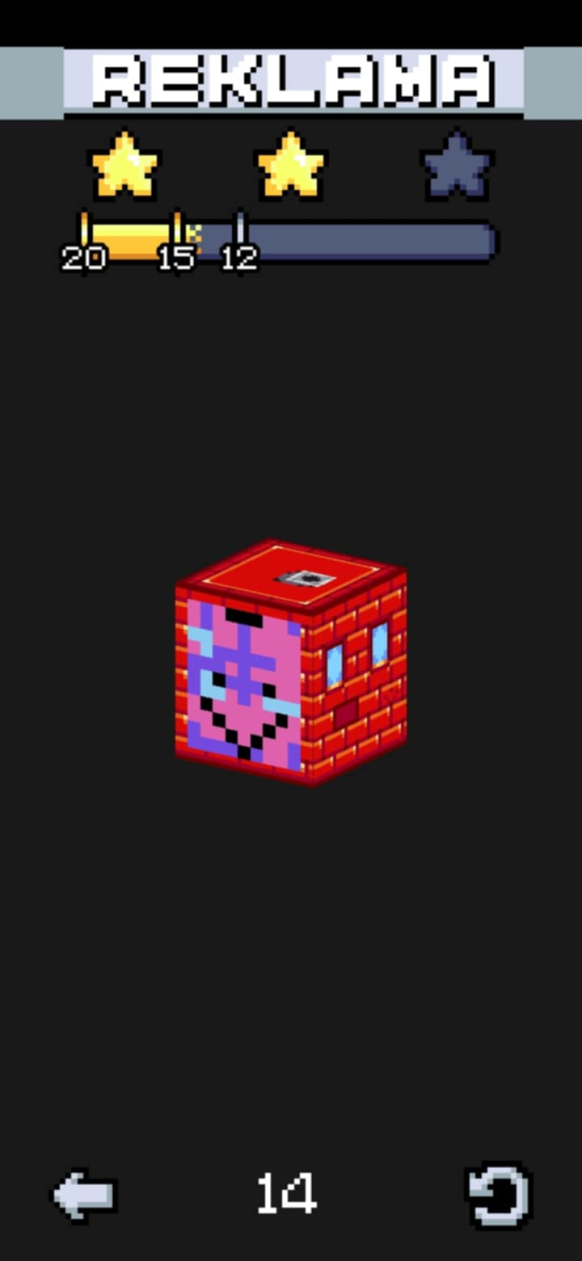
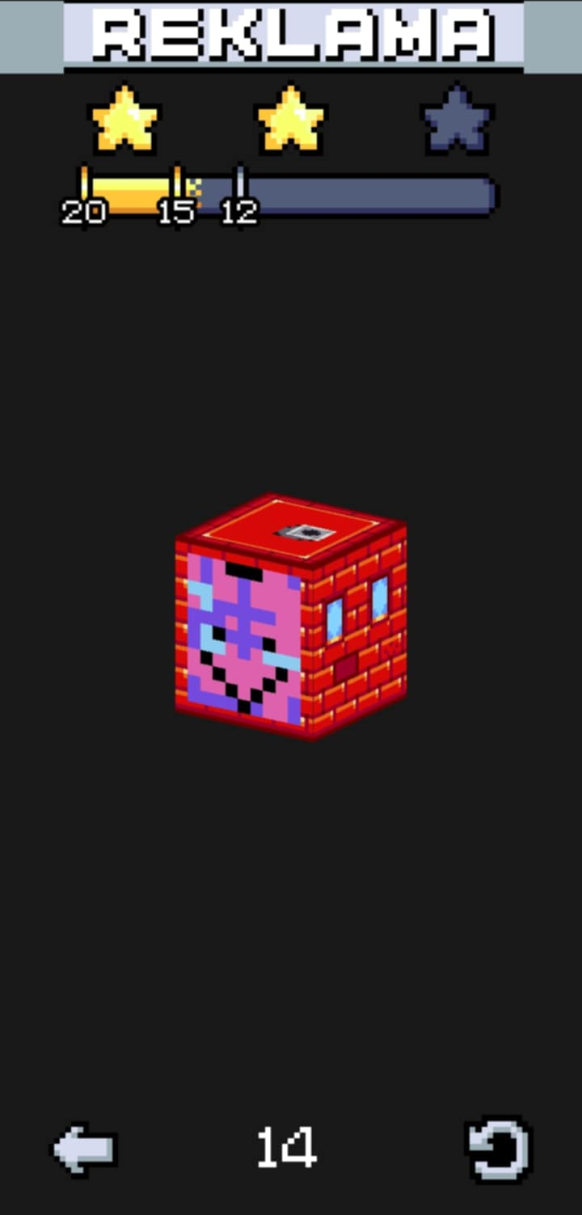
Remove Connectro images black top bar

diff --git a/Connectro/connectro.html b/Connectro/connectro.html
@@ -262,14 +262,14 @@
 
     <div class="section-title">Screenshots</div>
     <div class="phone-grid">
-      <a href="./connectro1.webp" target="_blank">
-        <img src="./connectro1.webp" alt="Connectro — single puzzle view" />
+      <a href="./connectro3.webp" target="_blank">
+        <img src="./connectro3.webp" alt="Connectro — single puzzle view" />
       </a>
       <a href="./connectro2.webp" target="_blank">
         <img src="./connectro2.webp" alt="Connectro — city overview" />
       </a>
-      <a href="./connectro3.webp" target="_blank">
-        <img src="./connectro3.webp" alt="Connectro — roguelike grid" />
+      <a href="./connectro1.webp" target="_blank">
+        <img src="./connectro1.webp" alt="Connectro — roguelike grid" />
       </a>
     </div>
 
